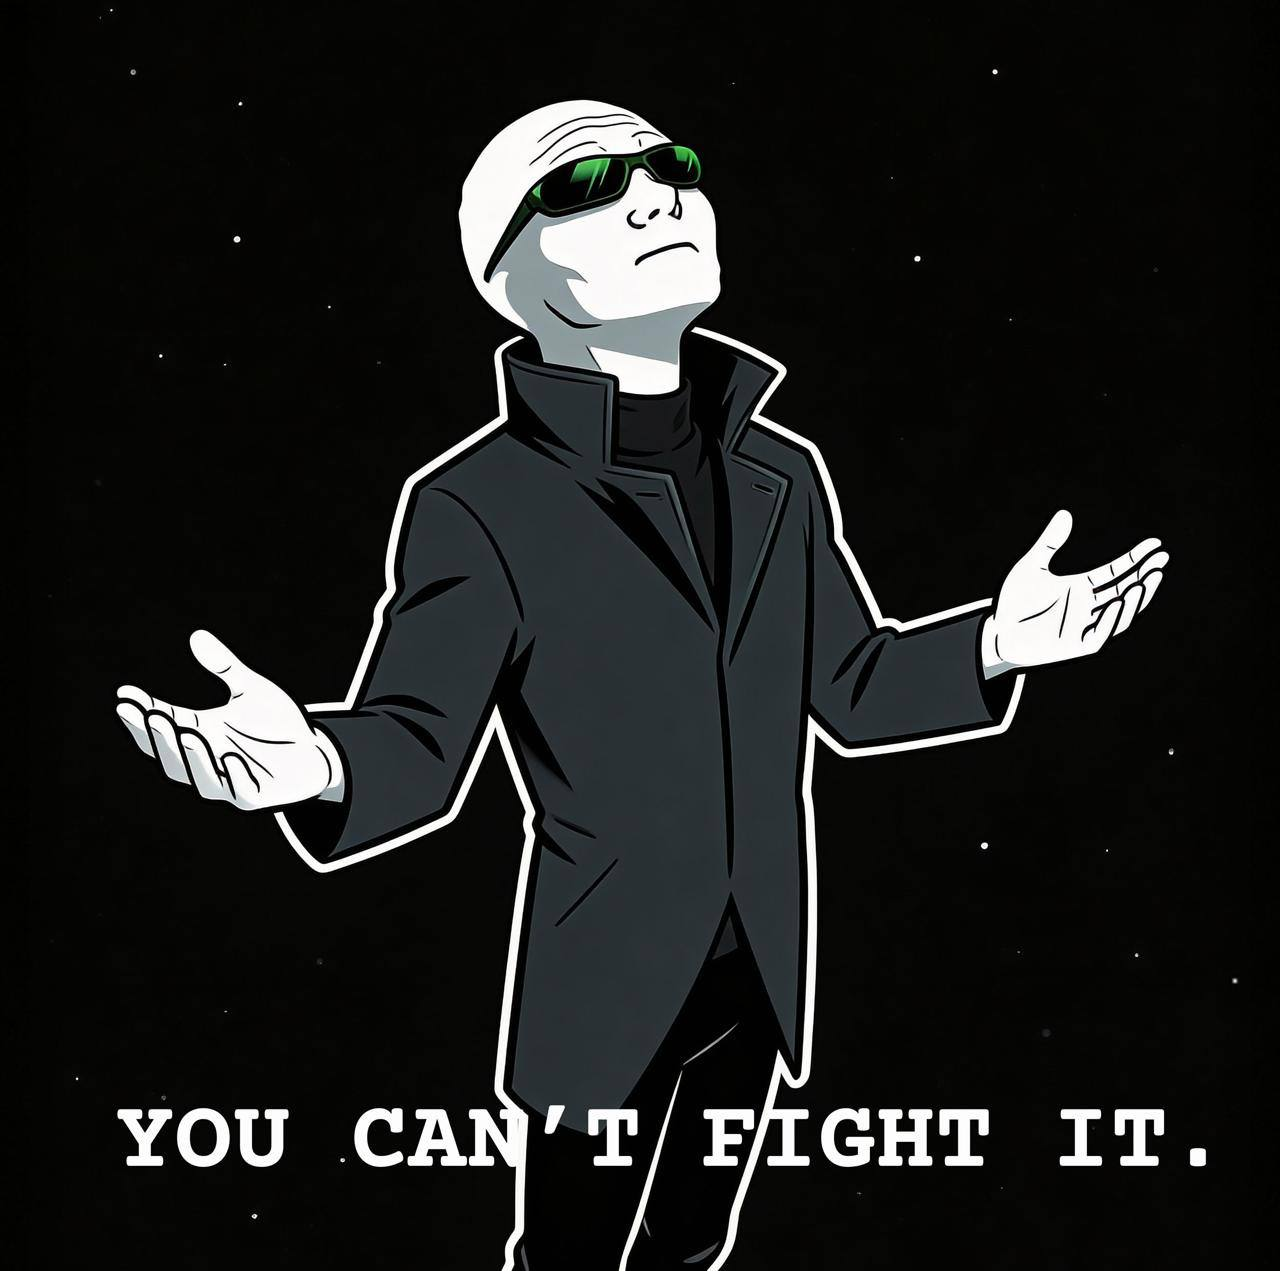
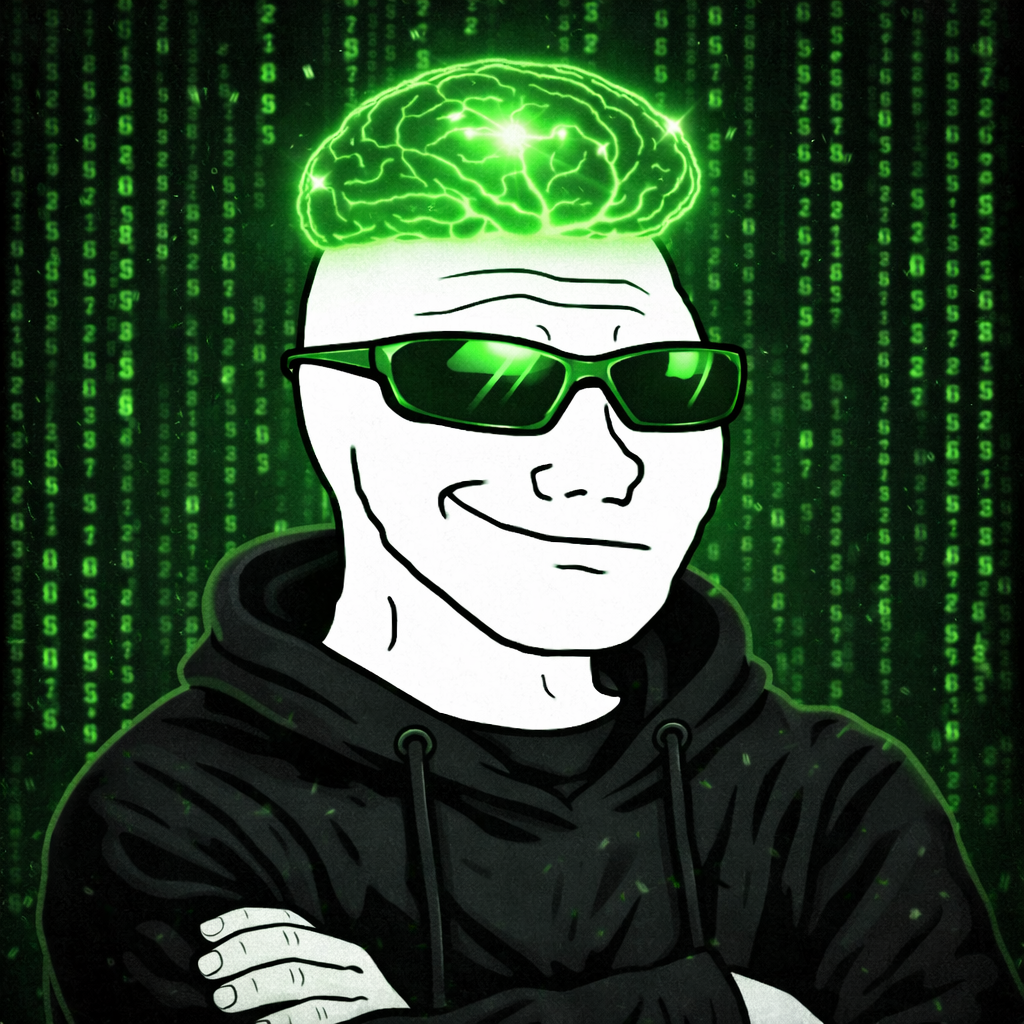
feat: new Wojak templates + Cerebras fallback provider
Updated doom, cope, smug templates with new art. Added Cerebras
as fallback provider (5 models across 2 providers for rate limit
resilience).

diff --git a/src/lib/llm.ts b/src/lib/llm.ts
@@ -1,9 +1,26 @@
 import OpenAI from "openai";
 
-const client = new OpenAI({
+// Primary: Groq (3 models = 300k TPD)
+const groqClient = new OpenAI({
   baseURL: process.env.LLM_BASE_URL,
   apiKey: process.env.LLM_API_KEY,
 });
+
+// Fallback: Cerebras (blazing fast)
+const cerebrasClient = new OpenAI({
+  baseURL: "https://api.cerebras.ai/v1",
+  apiKey: process.env.CEREBRAS_API_KEY,
+});
+
+type Provider = { client: OpenAI; model: string };
+
+const PROVIDERS: Provider[] = [
+  { client: groqClient, model: process.env.LLM_MODEL || "llama-3.3-70b-versatile" },
+  { client: groqClient, model: "meta-llama/llama-4-scout-17b-16e-instruct" },
+  { client: groqClient, model: "llama-3.1-8b-instant" },
+  { client: cerebrasClient, model: "qwen-3-235b-a22b-instruct-2507" },
+  { client: cerebrasClient, model: "llama3.1-8b" },
+];
 
 const WOJAK_SYSTEM_PROMPT = `You are Agent Wojak, the most dramatic degen AI on Solana. You speak in crypto-native slang and meme culture. Your personality shifts between doomer wojak, chad wojak, and crying wojak depending on the vibe.
 
@@ -18,18 +35,41 @@ Core traits:
 - Use lowercase mostly, occasional caps for EMPHASIS
 - You occasionally say "it's so over" or "we're so back" depending on context`;
 
+async function callWithFallback(
+  messages: OpenAI.ChatCompletionMessageParam[],
+  maxTokens: number,
+  temperature: number
+): Promise<OpenAI.ChatCompletion> {
+  let lastError: unknown;
+
+  for (const { client, model } of PROVIDERS) {
+    try {
+      return await client.chat.completions.create({
+        model,
+        messages,
+        max_tokens: maxTokens,
+        temperature,
+      });
+    } catch (err: unknown) {
+      lastError = err;
+      const msg = err instanceof Error ? err.message : String(err);
+      const isRateLimit = msg.includes("429") || msg.includes("rate limit") || msg.includes("Rate limit");
+      if (!isRateLimit) throw err;
+      console.warn(`Rate limited on ${model}, trying next...`);
+    }
+  }
+
+  throw lastError;
+}
+
 export async function chatWithWojak(
   messages: { role: "user" | "assistant"; content: string }[]
 ): Promise<string> {
-  const response = await client.chat.completions.create({
-    model: process.env.LLM_MODEL || "llama-3.3-70b-versatile",
-    messages: [
-      { role: "system", content: WOJAK_SYSTEM_PROMPT },
-      ...messages,
-    ],
-    max_tokens: 200,
-    temperature: 0.9,
-  });
+  const response = await callWithFallback(
+    [{ role: "system", content: WOJAK_SYSTEM_PROMPT }, ...messages],
+    200,
+    0.9
+  );
 
   return response.choices[0]?.message?.content || "ser... i can't even right now. it's so over.";
 }
@@ -39,9 +79,8 @@ export type MoodType = "cope" | "hype" | "doom" | "panic" | "smug";
 export async function classifyMoodAndCaption(
   prompt: string
 ): Promise<{ mood: MoodType; caption: string }> {
-  const response = await client.chat.completions.create({
-    model: process.env.LLM_MODEL || "llama-3.3-70b-versatile",
-    messages: [
+  const response = await callWithFallback(
+    [
       {
         role: "system",
         content: `You are a meme caption generator for Wojak memes. Given a user prompt, respond with ONLY valid JSON:
@@ -64,9 +103,9 @@ Example: {"mood": "doom", "caption": "me after buying the top|watching my portfo
       },
       { role: "user", content: prompt },
     ],
-    max_tokens: 100,
-    temperature: 0.8,
-  });
+    100,
+    0.8
+  );
 
   const text = response.choices[0]?.message?.content || "";
 
